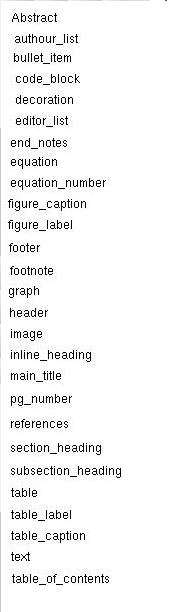
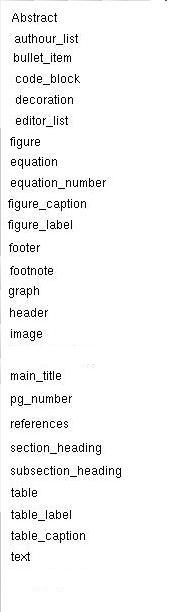
Changes to the colourguide to reflect new categories.  Changes to the display script to let you call JTAG and edit it.  Created an all-in-one script for jmlr for demos.

diff --git a/matlab/utils/build_all_td.m b/matlab/utils/build_all_td.m
@@ -8,21 +8,15 @@ function res = build_all_td(batchname);
     jmlrTrainDirs = {'/p/learning/klaven/Journals/TAGGED/jmlr/'};
     jmlrTestDirs = {'/p/learning/klaven/Journals/TEST_DATA/jmlr/'};
 
-%     fprintf('For nips training data:\n');
-%     build_td(nipsTrainDirs,[batchname '-nips-train'],false);
-%     fprintf('For nips test data:\n');
-%     build_td(nipsTestDirs,[batchname '-nips-test'],false);
-% 
-%     fprintf('For jmlr training data:\n');
-%     build_td(jmlrTrainDirs,[batchname '-jmlr-train'],false);
-%     fprintf('For jmlr test data:\n');
-%     build_td(jmlrTestDirs,[batchname '-jmlr-test'],false);
-
-    fprintf('Now doing lr and memm optimization for nips:\n');
+    fprintf('For nips training data:\n');
     build_td(nipsTrainDirs,[batchname '-nips-train'],true);
-    
-    fprintf('Now doing lr and memm optimization for jmlr:\n');
+    fprintf('For nips test data:\n');
+    build_td(nipsTestDirs,[batchname '-nips-test'],false);
+
+    fprintf('For jmlr training data:\n');
     build_td(jmlrTrainDirs,[batchname '-jmlr-train'],true);
+    fprintf('For jmlr test data:\n');
+    build_td(jmlrTestDirs,[batchname '-jmlr-test'],false);
 
     
 
@@ -32,13 +26,6 @@ function res = build_all_td(batchname);
 
 function res = build_td(dirs,fname,dolr);
 
-    if (nargin == 3) && dolr && exist(strcat(fname,'.knn.mat'));
-        tmp_td = parse_training_data(strcat(fname,'.knn.mat'));
-        %build_lr(tmp_td,fname);
-        build_memm(tmp_td,fname);
-        res = 1;
-        return;
-    end;
 
     trnfiles = {};
     for i=1:length(dirs);
@@ -57,6 +44,12 @@ function res = build_td(dirs,fname,dolr);
     dump_training_data(tmp_td, strcat(fname, '.knn.mat'));
     res = 1;
 
+    if (nargin == 3) && dolr;
+        tmp_td = parse_training_data(strcat(fname,'.knn.mat'));
+        build_lr(tmp_td,fname);
+        build_memm(tmp_td,fname);
+        res = 1;
+    end;
 
 function res = build_lr(td, fname);
 
@@ -65,6 +58,9 @@ function res = build_lr(td, fname);
 
     fprintf('     Done LR optimization.  Saving results.');
     dump_lr_weights(tmp_lrweights, strcat(fname, '.lr.mat'));
+
+    weights_to_csv(tmp_lrweights, [fname '-lr-weights.csv']);
+    
     res = 1;
 
 function res = build_memm(td,fname);
@@ -73,4 +69,5 @@ function res = build_memm(td,fname);
     tmp_memm_weights = memm_train(td,1e-3,1e4, strcat(fname,'.memm.mat'));
     fprintf('    Done MEMM optimization.  Results saved');
 
+    weights_to_csv(tmp_memm_weights, [fname '-memm-weights.csv']);
     res = 1;

diff --git a/matlab/utils/all_in_one_jmlr.m b/matlab/utils/all_in_one_jmlr.m
@@ -1,0 +1,72 @@
+function jt = all_in_one_jmlr(url,targetdir);
+
+if (strcmp(targetdir(1:2), './') || strcmp(targetdir(1:3), '../'));
+    targetdir = [pwd '/' targetdir];
+end;
+
+global class_names;
+global use;
+
+use.dist = true;
+use.snap = false;
+use.pnum = true;
+use.dens = true;
+use.mark = false;
+wpath='/h/40/klaven/jtag/matlab/results/nosnap/nosnap-jmlr-train.lr.mat';
+
+slash_idx = regexp(url, '/');
+filebase = url((slash_idx(end)+1):end);
+
+dot_idx = regexp(filebase,'\.');
+fileext = filebase((dot_idx(end)+1):end);
+filebase = filebase(1:(dot_idx(end)-1));
+
+if (length(targetdir) >= 1);
+    evalstr = ['!wget -nH -nd -nc -P' targetdir ' ' url];
+else;
+    evalstr = ['!wget -nH -nd -nc ' url];
+end;
+eval(evalstr);
+
+if (strcmp(fileext, 'pdf'));
+    evalstr = ['!gs -sDEVICE=tiffg4 -dBATCH -q -dNOPAUSE -sOutputFile=' ...
+               targetdir filebase '.ps ' targetdir filebase '.' fileext];
+    eval(evalstr);
+    fileext = 'ps';
+end;
+
+evalstr = ['!./utils/tiffsplit ' targetdir filebase '.' fileext ' ' ...
+           targetdir filebase '.'];
+eval(evalstr);
+
+%Now, we need to create the .jtag files for each of the .tiff files
+
+tmp = dir([targetdir filebase '.*.tif']);
+tiff_files = {tmp.name};
+
+for ii = 1:length(tiff_files);
+    fprintf('Processing file %i of %i\n',ii,length(tiff_files));
+    s = [];
+    s.img_file = [targetdir char(tiff_files(ii))];
+    dot_idx = regexp(s.img_file,'\.');
+    s.jtag_file = [s.img_file(1:(dot_idx(end))) 'jtag'];
+    s.rects = [];
+    s.class_id = [];
+    s.class_name = {};
+    s.mode = {};
+    s.snapped = [];
+    s.jlog_file = [s.img_file(1:(dot_idx(end))) 'jlog'];
+    s.sel_time = zeros(0,1);
+    s.class_time = zeros(0,1);
+    s.class_attempts = zeros(0,1);
+    s.resize_attempts = zeros(0,1);
+    
+    dump_jfiles(s);
+    
+    classify_pg(class_names, s.img_file, 'lr_fn', wpath);
+end;
+
+fprintf(['Load article ' targetdir filebase '\n']);
+load_article([targetdir filebase]);
+
+

diff --git a/matlab/utils/jt_plot.m b/matlab/utils/jt_plot.m
@@ -22,7 +22,7 @@ else
     jt = jtpath;
 end;
 
-colours = zeros(3,length(jt.class_id));
+colours = zeros(3,size(jt.rects,1));
 for i = 1:length(jt.class_id);
     switch (jt.class_name{jt.class_id(i)});
         case 'code_block'
@@ -31,7 +31,7 @@ for i = 1:length(jt.class_id);
             colours(:,i) = [0.72;0;0];
         case 'references'
             colours(:,i) = [0.82;0;0];
-        case 'inline_heading'
+        case 'figure'
             colours(:,i) = [1;0;0];
         
         case 'section_heading'
@@ -43,7 +43,7 @@ for i = 1:length(jt.class_id);
         
         case 'authour_list'
             colours(:,i) = [0;0;0.6];
-        case {'equation', 'equation_numbered'}
+        case 'equation'
             colours(:,i) = [0;0;0.8];
         case 'bullet_item'
             colours(:,i) = [0;0;1];
@@ -91,6 +91,7 @@ for i = 1:length(jt.class_id);
     end;
 end;
 
+fprintf('Plotting %s', jt.img_file);
 seg_plot(imread(jt.img_file),jt.rects,f,colours);
 
 

diff --git a/matlab/utils/load_article.m b/matlab/utils/load_article.m
@@ -29,6 +29,10 @@ function res = load_article(article_name);
 
 global article;
 
+if (strcmp(article_name(1:2), './') || strcmp(article_name(1:3), '../'));
+    article_name = [pwd '/' article_name];
+end;
+
 tmp = dir([article_name, '.*.jtag']);
 
 jt_files = {tmp.name};
@@ -46,6 +50,7 @@ for i=1:length(jt_files);
     article.page{i} = jt_load([dirpath,jt_files{i}],false);
 end;
 
+fprintf('Loading colourguide.\n');
 cg = colourguide;
 
 %f = figure('KeyPressFcn',@keyPressed);
@@ -57,15 +62,5 @@ page(1);
 res = article;
 
 
-function keyPressed(obj,eventdata);
-    lastChar = get(obj,'CurrentCharacter');
-    if ((lastChar == char(28)) || (lastChar == char(30)) || ...
-        (lastChar == 'p') || (lastChar == 'P'));
-        pp;
-    elseif ((lastChar == char(29)) || (lastChar == char(31)) || ...
-            (lastChar == 'n') || (lastChar == 'N'));
-        np;
-    end;
-    
 
 

diff --git a/matlab/utils/jt_edit.m b/matlab/utils/jt_edit.m
@@ -1,0 +1,23 @@
+function jt = jt_edit;
+    global article;
+    global class_names;
+    global use;
+
+    jt = article.page{article.curpage};
+    dump_jfiles(jt);
+    cd ..;
+    evalstr = ['!main.tcl ' jt.img_file];
+    eval(evalstr);
+    cd matlab;
+    
+    olduse = use;
+    use.dist = true;
+    use.snap = false;
+    use.dens = true;
+    use.mark = false;
+    classify_pg(class_names, jt.img_file, 'lr_fn', ...
+         '/h/40/klaven/jtag/matlab/results/nosnap/nosnap-jmlr-train.lr.mat');
+    use = olduse;
+    jt = jt_load(jt.jtag_file,0);
+    article.page{article.curpage} = jt;
+    page(article.curpage);
